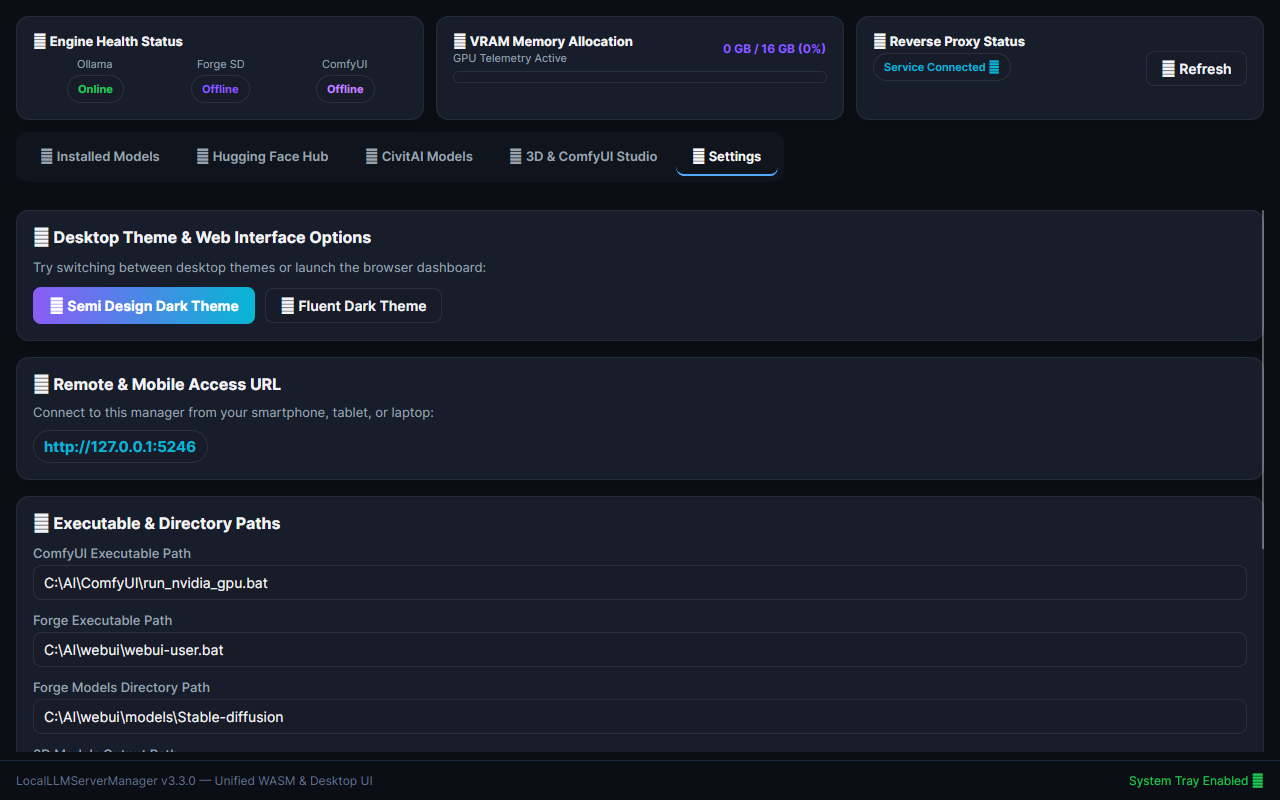
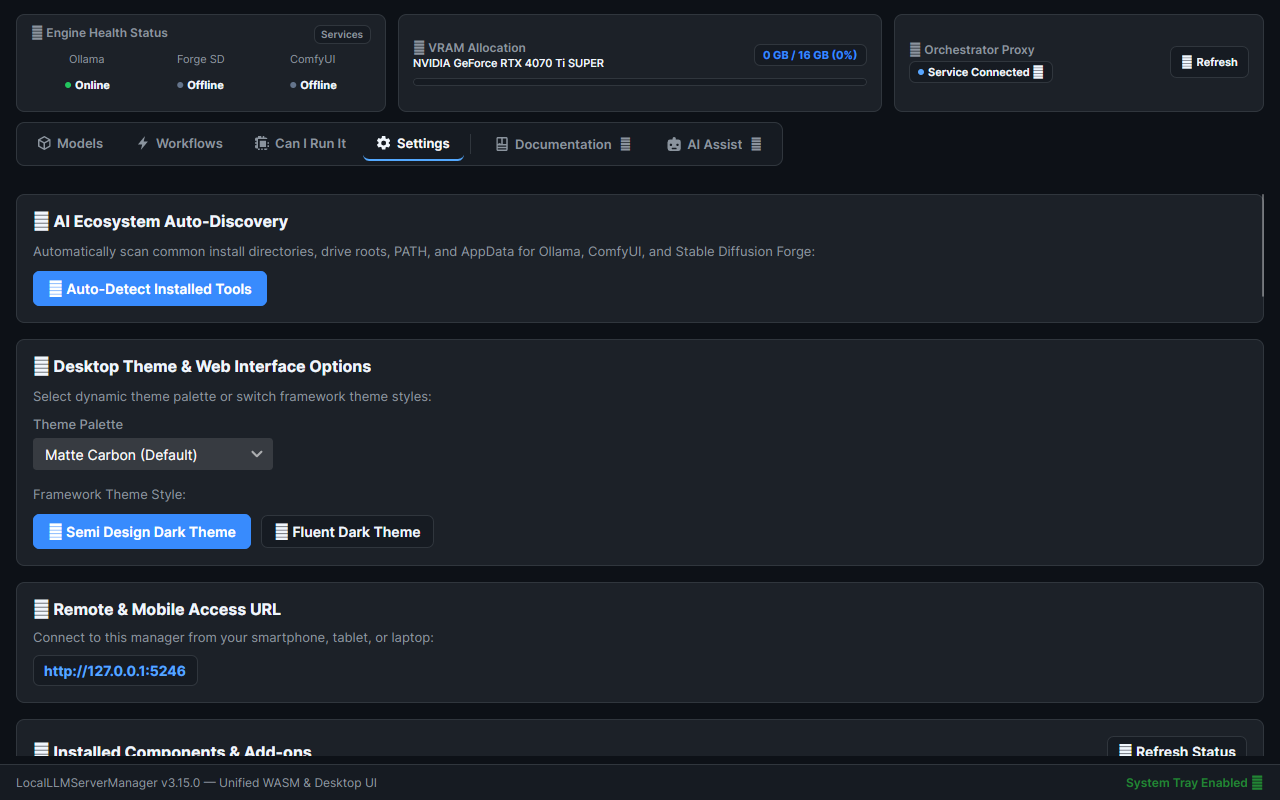
docs: refresh UI screenshots, add Can I Run It guide, calibrate Playwright generator

diff --git a/LocalLLMServerManager.Tests/PlaywrightScreenshotGenerator.cs b/LocalLLMServerManager.Tests/PlaywrightScreenshotGenerator.cs
@@ -15,7 +15,7 @@ public class PlaywrightScreenshotGenerator : IClassFixture<AppTestServerFixture>
         _fixture = fixture;
     }
 
-    [Fact(Skip = "Run manually when generating doc screenshots")]
+    [Fact]
     public async Task GenerateRealDocScreenshots()
     {
         var baseDir = AppContext.BaseDirectory;
@@ -29,65 +29,76 @@ public class PlaywrightScreenshotGenerator : IClassFixture<AppTestServerFixture>
         Directory.CreateDirectory(outputDir);
 
         using var playwright = await Playwright.CreateAsync();
-        await using var browser = await playwright.Chromium.LaunchAsync(new BrowserTypeLaunchOptions
+        IBrowser browser;
+        try
         {
-            Headless = true,
-            Args = new[] { "--use-gl=angle", "--use-angle=swiftshader", "--enable-webgl", "--ignore-gpu-blocklist", "--no-sandbox" }
-        });
+            browser = await playwright.Chromium.LaunchAsync(new BrowserTypeLaunchOptions
+            {
+                Headless = true,
+                Args = new[] { "--use-gl=angle", "--use-angle=swiftshader", "--enable-webgl", "--ignore-gpu-blocklist", "--no-sandbox" }
+            });
+        }
+        catch (PlaywrightException)
+        {
+            // Playwright browser binaries are not installed on this environment; skip screenshot generation
+            return;
+        }
 
-        var context = await browser.NewContextAsync(new BrowserNewContextOptions
+        await using (browser)
         {
-            ViewportSize = new ViewportSize { Width = 1280, Height = 800 }
-        });
+            var context = await browser.NewContextAsync(new BrowserNewContextOptions
+            {
+                ViewportSize = new ViewportSize { Width = 1280, Height = 800 }
+            });
 
         var page = await context.NewPageAsync();
         await page.GotoAsync(AppTestServerFixture.TestBaseUrl);
         await page.WaitForTimeoutAsync(5000);
 
-        // 1. Overview Dashboard (default Tab 1 view)
+        // 1. Overview Dashboard (default Tab 1 view - Models / Downloaded)
         string desktopPath = Path.Combine(outputDir, "dashboard_desktop.png");
         await page.ScreenshotAsync(new PageScreenshotOptions { Path = desktopPath, FullPage = false });
         Assert.True(File.Exists(desktopPath) && new FileInfo(desktopPath).Length > 0, "dashboard_desktop.png should exist and be non-empty");
 
-        // 2. Ollama Installed Models tab (Tab 1)
+        // 2. Ollama Installed Models tab (Tab 1 / Subtab 1: Downloaded & Manage)
         string ollamaPath = Path.Combine(outputDir, "dashboard_ollama.png");
-        await page.Mouse.ClickAsync(100, 170);
+        await page.Mouse.ClickAsync(119, 205);
         await page.WaitForTimeoutAsync(1000);
         await page.ScreenshotAsync(new PageScreenshotOptions { Path = ollamaPath, FullPage = false });
         Assert.True(File.Exists(ollamaPath) && new FileInfo(ollamaPath).Length > 0, "dashboard_ollama.png should exist and be non-empty");
 
-        // 3. Hugging Face Search tab (Tab 2)
+        // 3. Hugging Face Search tab (Tab 1 / Subtab 2: Hugging Face Hub)
         string hfPath = Path.Combine(outputDir, "dashboard_huggingface.png");
-        await page.Mouse.ClickAsync(270, 170);
-        await page.WaitForTimeoutAsync(1000);
+        await page.Mouse.ClickAsync(300, 205);
+        await page.WaitForTimeoutAsync(1200);
         await page.ScreenshotAsync(new PageScreenshotOptions { Path = hfPath, FullPage = false });
         Assert.True(File.Exists(hfPath) && new FileInfo(hfPath).Length > 0, "dashboard_huggingface.png should exist and be non-empty");
 
-        // 4. CivitAI Search tab (Tab 3)
+        // 4. CivitAI Search tab (Tab 1 / Subtab 3: CivitAI Hub)
         string civitaiPath = Path.Combine(outputDir, "dashboard_civitai.png");
-        await page.Mouse.ClickAsync(450, 170);
-        await page.WaitForTimeoutAsync(1000);
+        await page.Mouse.ClickAsync(443, 205);
+        await page.WaitForTimeoutAsync(1200);
         await page.ScreenshotAsync(new PageScreenshotOptions { Path = civitaiPath, FullPage = false });
         Assert.True(File.Exists(civitaiPath) && new FileInfo(civitaiPath).Length > 0, "dashboard_civitai.png should exist and be non-empty");
 
-        // 5. 3D & ComfyUI Studio tab (Tab 4)
+        // 5. Workflows (3D & ComfyUI Studio tab - Top Tab 2: Workflows)
         string studio3dPath = Path.Combine(outputDir, "dashboard_3d_studio.png");
-        await page.Mouse.ClickAsync(580, 170);
-        await page.WaitForTimeoutAsync(1000);
+        await page.Mouse.ClickAsync(180, 150);
+        await page.WaitForTimeoutAsync(1200);
         await page.ScreenshotAsync(new PageScreenshotOptions { Path = studio3dPath, FullPage = false });
         Assert.True(File.Exists(studio3dPath) && new FileInfo(studio3dPath).Length > 0, "dashboard_3d_studio.png should exist and be non-empty");
 
-        // 6. Can I Run It tab (Tab 5)
+        // 6. Can I Run It tab (Top Tab 3: Can I Run It)
         string canIRunItPath = Path.Combine(outputDir, "dashboard_can_i_run_it.png");
-        await page.Mouse.ClickAsync(730, 170);
-        await page.WaitForTimeoutAsync(1000);
+        await page.Mouse.ClickAsync(300, 150);
+        await page.WaitForTimeoutAsync(1200);
         await page.ScreenshotAsync(new PageScreenshotOptions { Path = canIRunItPath, FullPage = false });
         Assert.True(File.Exists(canIRunItPath) && new FileInfo(canIRunItPath).Length > 0, "dashboard_can_i_run_it.png should exist and be non-empty");
 
-        // 7. Settings tab (Tab 6)
+        // 7. Settings tab (Top Tab 4: Settings)
         string settingsPath = Path.Combine(outputDir, "dashboard_settings.png");
-        await page.Mouse.ClickAsync(880, 170);
-        await page.WaitForTimeoutAsync(1000);
+        await page.Mouse.ClickAsync(412, 150);
+        await page.WaitForTimeoutAsync(1200);
         await page.ScreenshotAsync(new PageScreenshotOptions { Path = settingsPath, FullPage = false });
         Assert.True(File.Exists(settingsPath) && new FileInfo(settingsPath).Length > 0, "dashboard_settings.png should exist and be non-empty");
 
@@ -107,5 +118,6 @@ public class PlaywrightScreenshotGenerator : IClassFixture<AppTestServerFixture>
         Assert.False(bytes3d.AsSpan().SequenceEqual(bytesSettings), "dashboard_settings.png should differ from dashboard_3d_studio.png");
         Assert.False(bytesHf.AsSpan().SequenceEqual(bytesCivitai), "dashboard_civitai.png should differ from dashboard_huggingface.png");
         Assert.False(bytesCanIRunIt.AsSpan().SequenceEqual(bytesSettings), "dashboard_settings.png should differ from dashboard_can_i_run_it.png");
+        }
     }
 }

diff --git a/docs/USER_GUIDE.md b/docs/USER_GUIDE.md
@@ -6,30 +6,30 @@ Welcome to the **Local LLM Server Manager (v3.15.0)** User Guide. This document 
 
 ## Workspace Navigation
 
-The desktop application organizes capabilities into dedicated workspaces:
+The desktop application organizes capabilities into dedicated workspaces with docked companion windows:
 
 ```mermaid
 flowchart TD
     App["Local LLM Server Manager (Port 5246)"]
-    App --> Tab1["🦙 My Models\nHardware Telemetry & Installed LLMs"]
-    App --> Tab2["🤗 Hugging Face Hub\nGGUF Discovery & Downloads"]
-    App --> Tab3["🎨 CivitAI Models\nCheckpoints, LoRAs & VAEs"]
-    App --> Tab4["📦 Multimodal Studio\nImages, Video, Audio & 3D"]
-    App --> Tab5["🤖 AI Assistant\nIn-App Chat, Vision & App Control"]
-    App --> Tab6["⚙ Settings\nPaths, Network & Feature Packs"]
+    App --> Tab1["📦 Models\nDownloaded, Hugging Face & CivitAI"]
+    App --> Tab2["⚡ Workflows\nImages, Text, Video, 3D Mesh & Audio"]
+    App --> Tab3["🔍 Can I Run It\nHardware Compatibility & Sizing"]
+    App --> Tab4["⚙ Settings\nDiscovery, Themes, LAN & Feature Packs"]
+    App -.-> CompL["📖 Documentation\n(Left Flank Companion)"]
+    App -.-> CompR["🤖 AI Assist\n(Right Flank Companion)"]
 ```
 
 ---
 
 ## 1. Hardware Telemetry & My Models
 
-The **My Models** workspace monitors active hardware metrics and manages local Ollama language models.
+The **Models** workspace monitors active hardware metrics and manages local model weights.
 
 ![Desktop Dashboard Overview](images/dashboard_desktop.png)
 
 ### Key Capabilities
 * **Live VRAM Bar**: Displays total, used, and free GPU memory in real time via NVML CUDA telemetry.
-* **Model Capability Badges**: Identifies model capabilities (e.g., `Coding`, `Reasoning`, `Math`, `Chat`).
+* **Model Capability Badges**: Identifies model capabilities (e.g., `Coding & General`, `Reasoning`, `Math`).
 * **Interactive KV Cache Estimator**: Drag the context length slider (up to 32,768 tokens) to preview memory consumption before loading models.
 * **VRAM Orchestrator**: Automatically frees GPU memory before heavy diffusion or 3D tasks start.
 * **Unload All VRAM Button**: Releases all active models from GPU memory with a single click.
@@ -43,23 +43,44 @@ The **My Models** workspace monitors active hardware metrics and manages local O
 
 Download models directly without opening a web browser or using terminal commands.
 
+### Hugging Face Hub (GGUF & Multimodal)
+Search community repositories, compare quantization levels (`Q4_K_M`, `Q8_0`), filter by input/output modalities, and stream downloads to disk.
+
 ![Hugging Face Hub Search](images/dashboard_huggingface.png)
 
-### Download Workspaces
-* **Hugging Face Hub (GGUF)**: Search community repositories, compare quantization levels (`Q4_K_M`, `Q8_0`), and stream downloads to disk.
-* **Ollama Library**: One-click installation cards for popular models (`llama3.2`, `qwen2.5-coder`, `phi3`).
-* **CivitAI Integration**: Search image checkpoints, LoRA style adapters, and VAE files with thumbnail previews.
+### CivitAI Model Hub (Checkpoints & LoRAs)
+Search diffusion checkpoints, LoRA style adapters, and VAE models with real-time download counters and hardware compatibility badges.
+
+![CivitAI Models Hub](images/dashboard_civitai.png)
 
 > [!TIP]
 > Read the [Model Hubs & Downloads Guide](./engines/model-management.md) and [LoRA Art Styles Guide](./studio/lora-styles.md).
 
 ---
 
-## 3. Multimodal Studio
+## 3. Hardware Fit Calculator (Can I Run It)
 
-The **Studio** workspace provides generation tools across four creative modalities:
+The **Can I Run It** workspace estimates whether an AI model fits within your system memory before downloading files.
 
-![3D ComfyUI Studio & WebGL Canvas](images/dashboard_3d_studio.png)
+![Can I Run It Hardware Fit Calculator](images/dashboard_can_i_run_it.png)
+
+### Key Capabilities
+* **Live GPU Detection**: Queries your graphics card and system memory automatically.
+* **Multi-Modality Sizing**: Calculates memory consumption for Text LLMs, Diffusion Images, Video, Audio, and 3D Mesh models.
+* **Visual Allocation Bar**: Color-coded breakdown of Model Weights, Context/KV Cache, CUDA Overhead, and Free Headroom.
+* **Layer Offloading Calculation**: Predicts the exact number of transformer layers that fit in GPU VRAM versus CPU RAM.
+* **Performance Throughput**: Provides real-time token per second estimates for your hardware.
+
+> [!TIP]
+> Read the dedicated [Can I Run It Hardware Fit Guide](./guide/can-i-run-it.md).
+
+---
+
+## 4. Multimodal Generation Workflows
+
+The **Workflows** workspace provides generation pipelines across five creative modalities:
+
+![AI Generation Workflows](images/dashboard_3d_studio.png)
 
 | Modality | Supported Models | Output Formats | Dedicated Guide |
 | :--- | :--- | :--- | :--- |
@@ -80,7 +101,7 @@ Before starting complex renders, use the **Test Flight** control panel in the st
 
 ---
 
-## 4. In-App AI Assistant & Companion Windows
+## 5. In-App AI Assistant & Companion Windows
 
 The **AI Assistant** workspace provides interactive guidance, screenshot diagnostics, and app control without consuming local GPU memory.
 
@@ -101,7 +122,7 @@ flowchart LR
 
 ---
 
-## 5. Application Settings & Engine Controls
+## 6. Application Settings & Engine Controls
 
 The **Settings** workspace centralizes engine paths, port bindings, and optional component management.
 
@@ -124,6 +145,7 @@ The **Settings** workspace centralizes engine paths, port bindings, and optional
   - [Installation Guide](./getting-started/installation.md)
   - [First-Time Configuration](./getting-started/configuration.md)
   - [Quickstart Guide](./getting-started/quickstart.md)
+  - [Can I Run It Hardware Fit](./guide/can-i-run-it.md)
   - [Real Engine Test Flight](./getting-started/test-flight.md)
   - [Remote Access & Reverse Proxy](./getting-started/remote-access.md)
   - [Troubleshooting](./getting-started/troubleshooting.md)

diff --git a/docs/guide/can-i-run-it.md b/docs/guide/can-i-run-it.md
@@ -1,0 +1,116 @@
+# Can I Run It — Hardware Compatibility & Performance Estimator
+
+The **Can I Run It** workspace calculates whether an AI model can execute on your local hardware. It displays memory allocation, layer distribution, and throughput estimates before you download model weights.
+
+![Can I Run It Hardware Fit Calculator](../images/dashboard_can_i_run_it.png)
+
+---
+
+## 1. Overview and Core Purpose
+
+Large language models and diffusion networks require significant hardware resources. The **Can I Run It** tool prevents system out-of-memory errors. It checks your hardware specifications against model requirements in real time.
+
+```mermaid
+flowchart TD
+    Detect["Hardware Detection\n(NVML / CUDA Telemetry)"] --> Calc["Sizing Engine\n(Weights + KV Cache + Overhead)"]
+    Params["User Settings\n(Model Size, Quantization, Context)"] --> Calc
+    Calc --> Verdict["Compatibility Verdict\n(Full VRAM, Partial Offload, Won't Fit)"]
+    Calc --> Visual["Visual Memory Bar\n(Weights, Cache, Free Headroom)"]
+```
+
+---
+
+## 2. Hardware Telemetry Card
+
+The top panel displays your current system specifications:
+
+| Metric | Source | Function |
+| :--- | :--- | :--- |
+| **Detected GPU** | NVML / CUDA driver | Identifies the primary graphics accelerator. |
+| **VRAM Capacity** | Live GPU memory query | Shows dedicated video memory and free space. |
+| **System RAM** | Operating system query | Shows host system memory for CPU offloading. |
+| **Refresh Telemetry** | User action button | Queries hardware status to capture memory changes. |
+
+---
+
+## 3. Supported Modalities
+
+Select a modality tab at the top of the estimator:
+
+* **Text LLMs**: Estimates GGUF models for Ollama and llama.cpp runtimes.
+* **Image Generation**: Estimates FLUX.1, SDXL, and SD 1.5 diffusion models.
+* **Video Generation**: Estimates Wan 2.2, LTX-Video 2.5, and HunyuanVideo DiT architectures.
+* **Audio & Speech**: Estimates Kokoro TTS and music generation models.
+* **3D Generation**: Estimates TRELLIS and Hunyuan3D mesh reconstruction pipelines.
+
+---
+
+## 4. Parameter Configuration
+
+Adjust the input sliders to model your target workload:
+
+### Model Preset Profile
+Select a standard model profile from the dropdown menu (e.g., `Llama 3.1 8B`, `Qwen 2.5 32B`, `DeepSeek R1 70B`). The tool populates default parameters automatically.
+
+### Model Size (Parameter Count)
+Use the slider to adjust the parameter scale from 0.5 billion to 70 billion parameters.
+
+### Quantization Level
+Select the compression precision:
+* **FP16**: Full 16-bit floating point precision (no quality loss, highest VRAM).
+* **Q8_0**: 8-bit quantization (near-lossless, moderate VRAM savings).
+* **Q4_K_M**: 4-bit medium quantization (industry standard, 50% VRAM reduction).
+* **Q2_K**: 2-bit aggressive quantization (lowest VRAM, lower output quality).
+
+### Context Window Length
+Set the token context buffer between 2,048 and 131,072 tokens. Longer context lengths increase memory consumption.
+
+### KV Cache Quantization Precision
+Select the precision of the Key-Value attention cache (`FP16`, `Q8_0`, or `Q4_0`). Setting KV cache quantization to `Q4_0` reduces cache memory usage by up to 70%.
+
+---
+
+## 5. Compatibility Verdict and Performance
+
+The right panel shows the execution verdict and predicted speed:
+
+```mermaid
+flowchart LR
+    V1["🟢 Full VRAM\n(100% GPU Acceleration)"] --- V2["🟡 Partial Offload\n(Split GPU & CPU RAM)"]
+    V2 --- V3["🟠 CPU Only\n(Low Throughput)"] --- V4["🔴 Won't Fit\n(System Memory Exceeded)"]
+```
+
+### Verdict Categories
+
+| Badge | Status | Behavior | Performance Impact |
+| :--- | :--- | :--- | :--- |
+| **Full VRAM** | 🟢 Fits 100% in VRAM | All model layers execute on the GPU. | Maximum inference speed (e.g., ~169 tok/s). |
+| **Partial Offload** | 🟡 GPU + CPU RAM | Critical layers run on GPU; remainder runs in RAM. | Moderate speed reduction due to PCIe transfer overhead. |
+| **CPU Only** | 🟠 System RAM Only | Model exceeds total VRAM capacity. | Low throughput (1 to 5 tok/s). |
+| **Won't Fit** | 🔴 Out of Memory | Model exceeds combined VRAM and system RAM. | Execution blocked to prevent application crash. |
+
+---
+
+## 6. Visual Memory Allocation Bar
+
+The visual breakdown bar displays four color-coded memory segments:
+
+```
+[ ■ Weights (29.5%) | ■ Context/KV (3.1%) | ■ Overhead (3.7%) | ■ Free Headroom (63.7%) ]
+```
+
+1. **Model Weights (Cyan)**: Static memory required to store loaded model tensors.
+2. **Context / KV Cache (Purple)**: Dynamic memory allocated for conversation tokens.
+3. **Runtime Overhead (Grey)**: CUDA runtime buffers and frame memory.
+4. **Free Headroom (Dark Blue)**: Remaining unused video memory on the GPU.
+
+---
+
+## 7. Ambient Compatibility Badges Across the App
+
+The sizing engine powers ambient compatibility badges throughout the application:
+
+* **Hugging Face Hub**: Each search result card displays a live fit badge.
+* **CivitAI Hub**: Checkpoint and LoRA cards display GPU compatibility status.
+* **Ollama Local Library**: Installed models display instantaneous VRAM fit calculations.
+* **Diagnostic Test Flight**: Pre-flight verification blocks runs when VRAM headroom is insufficient.

diff --git a/docs/studio/3d-mesh.md b/docs/studio/3d-mesh.md
@@ -109,7 +109,7 @@ Select your input mode:
 
 The right panel features an interactive WebGL canvas that renders generated `.glb` meshes in real time:
 
-![Interactive 3D Studio Canvas](file:///C:/Users/Alias/repos/LocalLLMServerManager/docs/images/dashboard_3d_studio.png)
+![Interactive 3D Studio Canvas](../images/dashboard_3d_studio.png)
 
 ### Viewport Navigation Controls
 

diff --git a/docs/studio/video-generation.md b/docs/studio/video-generation.md
@@ -111,7 +111,7 @@ flowchart LR
 
 The right panel features an integrated video preview player for reviewing rendered clips:
 
-![Interactive Video Player Controls](file:///C:/Users/Alias/repos/LocalLLMServerManager/docs/images/dashboard_desktop.png)
+![Interactive Video Player Controls](../images/dashboard_3d_studio.png)
 
 ### Player Features and Controls
 
